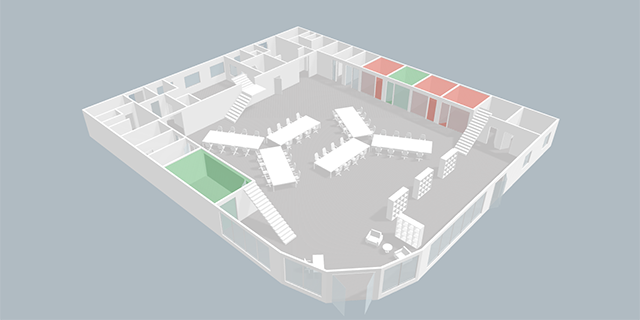
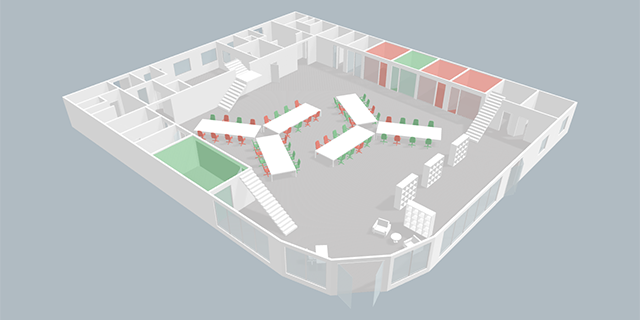
add desk booking

Changed region(s): [[0.0938, 0.0312, 0.9062, 0.9688], [0.2812, 0.6562, 0.3125, 0.6875], [0.1875, 0.4375, 0.2188, 0.4688]]

diff --git a/src/pages/examples/office-booking/_data.js b/src/pages/examples/office-booking/_data.js
@@ -1,7 +1,7 @@
 export const rooms = [
   {
     id: 'c92d5ab7-ed65-5e01-9bb1-87c3936f91c7',
-    name: 'T7',
+    name: 'Solomon Islands',
     available: false,
     coordinates: [
       {
@@ -32,7 +32,7 @@ export const rooms = [
   },
   {
     id: '59a3c0ce-14b6-5abb-b669-a692a2276854',
-    name: 'R9',
+    name: 'Macedonia',
     available: false,
     coordinates: [
       {
@@ -63,7 +63,7 @@ export const rooms = [
   },
   {
     id: '036a96ca-e399-5f51-970c-314bbca5e98f',
-    name: 'O3',
+    name: 'Svalbard & Jan Mayen',
     available: true,
     coordinates: [
       {
@@ -94,7 +94,7 @@ export const rooms = [
   },
   {
     id: '11afc6ff-e8f0-5515-819b-f612e5e6e4db',
-    name: 'N2',
+    name: 'Seychelles',
     available: false,
     coordinates: [
       {
@@ -125,7 +125,7 @@ export const rooms = [
   },
   {
     id: '5d1739ac-27ca-5788-a9fd-c8decc13d690',
-    name: 'F3',
+    name: 'French Polynesia',
     available: true,
     coordinates: [
       {
@@ -156,7 +156,7 @@ export const rooms = [
   },
   {
     id: '63de941e-8b30-5bbd-b169-f8936c07c838',
-    name: 'L9',
+    name: 'Honduras',
     available: true,
     coordinates: [
       {
@@ -187,7 +187,7 @@ export const rooms = [
   },
   {
     id: '7170ca48-c9de-56e5-9a4f-d7f1ebf2edaf',
-    name: 'T9',
+    name: 'Kyrgyzstan',
     available: false,
     coordinates: [
       {
@@ -218,7 +218,7 @@ export const rooms = [
   },
   {
     id: '7170ca48-c9de-56e5-9a4f-d7f1ebf3cdaf',
-    name: 'X6',
+    name: 'French Guiana',
     available: true,
     coordinates: [
       {
@@ -246,5 +246,253 @@ export const rooms = [
         elevation: 3.0000000000000036
       }
     ]
+  }
+]
+
+export const desks = [
+  {
+    name: 'Desk 01',
+    furnitureId: 'b0b1d83b-2429-4b3d-abc2-6a3b77abe8ed',
+    available: false
+  },
+  {
+    name: 'Desk 02',
+    furnitureId: '1cc946fd-cfe0-4dc7-9dae-5881012b2ba6',
+    available: false
+  },
+  {
+    name: 'Desk 03',
+    furnitureId: 'cd17af1f-2930-42c1-8fbc-aaa883c717af',
+    available: true
+  },
+  {
+    name: 'Desk 04',
+    furnitureId: '9ac8348c-e58f-4cae-bc7a-cad71ff2836e',
+    available: true
+  },
+  {
+    name: 'Desk 05',
+    furnitureId: '540b6dcf-4423-4ee8-9a16-2a91e2586b1b',
+    available: true
+  },
+  {
+    name: 'Desk 06',
+    furnitureId: 'c2206de0-8e3f-4225-ad0b-9f2ce51dd763',
+    available: false
+  },
+  {
+    name: 'Desk 07',
+    furnitureId: '1603d615-e1b4-4f51-8969-0f698b98585c',
+    available: true
+  },
+  {
+    name: 'Desk 08',
+    furnitureId: '6d46f953-b293-4f97-83cb-2bb2f2d07ae8',
+    available: true
+  },
+  {
+    name: 'Desk 09',
+    furnitureId: '4eb0fb9c-4ca6-49df-ad4c-6896f52220e5',
+    available: true
+  },
+  {
+    name: 'Desk 10',
+    furnitureId: 'bfbdbe93-3e3b-4639-8ea1-aa704f4a893c',
+    available: true
+  },
+  {
+    name: 'Desk 11',
+    furnitureId: 'eb11b661-c6b3-4df0-9359-64ac71c9528f',
+    available: false
+  },
+  {
+    name: 'Desk 12',
+    furnitureId: 'f76c9efc-efea-4f11-a760-1cd97b1380e8',
+    available: true
+  },
+  {
+    name: 'Desk 13',
+    furnitureId: 'af7be1e6-4dc9-49a6-8f7f-18d2acfb588e',
+    available: true
+  },
+  {
+    name: 'Desk 14',
+    furnitureId: '3d9a5b4d-ba6d-40f0-914e-de3016896fcd',
+    available: false
+  },
+  {
+    name: 'Desk 15',
+    furnitureId: '26ca5986-9a23-4d1c-8543-76a4e2a7878c',
+    available: true
+  },
+  {
+    name: 'Desk 16',
+    furnitureId: 'c3d1d0ba-ccb8-4a3f-bdb4-598ed1751de3',
+    available: false
+  },
+  {
+    name: 'Desk 17',
+    furnitureId: 'f3bb2189-494f-4573-9906-bd8b64942e23',
+    available: false
+  },
+  {
+    name: 'Desk 18',
+    furnitureId: '128d6920-603f-465a-b49b-a0cf3e1d4108',
+    available: false
+  },
+  {
+    name: 'Desk 19',
+    furnitureId: '1c9f5f97-2fa3-42e0-99e4-8f57ab931ec4',
+    available: true
+  },
+  {
+    name: 'Desk 20',
+    furnitureId: '46838541-d00e-439f-8b4c-afe3826644e6',
+    available: false
+  },
+  {
+    name: 'Desk 21',
+    furnitureId: '757e9d0a-5025-443c-817b-976fcfcd4b0f',
+    available: false
+  },
+  {
+    name: 'Desk 22',
+    furnitureId: '72bbe85b-6629-49b1-9bc7-d023aa7d1c49',
+    available: true
+  },
+  {
+    name: 'Desk 23',
+    furnitureId: 'e9bc9e25-320e-4b8b-b2a6-e65ee7596e1c',
+    available: true
+  },
+  {
+    name: 'Desk 24',
+    furnitureId: 'e6d0691a-7adf-475a-9ea5-1e1d52871437',
+    available: false
+  },
+  {
+    name: 'Desk 25',
+    furnitureId: '594b4a49-2c66-4ebb-a40a-742609083fe1',
+    available: false
+  },
+  {
+    name: 'Desk 26',
+    furnitureId: '536aa47c-c33f-4f2a-b051-7423e4e1dd0d',
+    available: true
+  },
+  {
+    name: 'Desk 27',
+    furnitureId: '00f6e4bd-a4b7-4998-87d5-d1677bbb05bb',
+    available: true
+  },
+  {
+    name: 'Desk 28',
+    furnitureId: 'a3d39cc6-3a55-41d6-acc0-e97a1abfebea',
+    available: true
+  },
+  {
+    name: 'Desk 29',
+    furnitureId: '0289a68f-0878-4c62-a038-a2f024b10cb2',
+    available: false
+  },
+  {
+    name: 'Desk 30',
+    furnitureId: '938e9140-1560-4b8c-80dc-76c8db0099ac',
+    available: true
+  },
+  {
+    name: 'Desk 31',
+    furnitureId: '938e9140-1560-4b8c-80dc-76c8db0099ac',
+    available: false
+  },
+  {
+    name: 'Desk 32',
+    furnitureId: '61662997-d8c3-4835-bcb0-81459e6228a7',
+    available: false
+  },
+  {
+    name: 'Desk 33',
+    furnitureId: '3a0b0f55-d116-4e40-b856-a5b2f504bb74',
+    available: false
+  },
+  {
+    name: 'Desk 34',
+    furnitureId: 'be3e5403-ab90-4190-9000-5803707148c4',
+    available: true
+  },
+  {
+    name: 'Desk 35',
+    furnitureId: 'b3161e62-2fac-4b7c-a4c3-82ad6981bc71',
+    available: true
+  },
+  {
+    name: 'Desk 36',
+    furnitureId: 'b8754da4-e708-4994-8e78-d4f1ddb77a56',
+    available: true
+  },
+  {
+    name: 'Desk 37',
+    furnitureId: '9a6c379e-6713-4475-a35a-88450f981412',
+    available: true
+  },
+  {
+    name: 'Desk 38',
+    furnitureId: 'd804344b-7fd8-4fd1-bdf4-15aeb4324349',
+    available: false
+  },
+  {
+    name: 'Desk 39',
+    furnitureId: 'aefc6477-a3b0-4160-b9c4-ab1677cadaf3',
+    available: true
+  },
+  {
+    name: 'Desk 40',
+    furnitureId: '7672236a-d778-463f-984e-ccb367e9eb97',
+    available: true
+  },
+  {
+    name: 'Desk 41',
+    furnitureId: '55726f2f-bb0f-4529-8adb-563ef5e54696',
+    available: true
+  },
+  {
+    name: 'Desk 42',
+    furnitureId: '667dfde5-8836-48e4-9755-be2242506efb',
+    available: true
+  },
+  {
+    name: 'Desk 43',
+    furnitureId: 'fce57f14-e1a5-4102-94b6-c96f0c006fd1',
+    available: false
+  },
+  {
+    name: 'Desk 44',
+    furnitureId: '2eff29a1-0cd5-429b-a332-7c8aa901abfa',
+    available: true
+  },
+  {
+    name: 'Desk 45',
+    furnitureId: '6fb497ec-16cd-432c-a872-11407fad5ac9',
+    available: false
+  },
+  {
+    name: 'Desk 46',
+    furnitureId: '13e0be0a-6106-458e-9334-85db02b114a8',
+    available: false
+  },
+  {
+    name: 'Desk 47',
+    furnitureId: 'c587208d-f00c-4907-b71f-fcde58976ca7',
+    available: false
+  },
+  {
+    name: 'Desk 48',
+    furnitureId: '0a9ea518-5133-4bcb-a81e-a301ebd889d1',
+    available: false
+  },
+  {
+    name: 'Desk 49',
+    furnitureId: 'c956ad13-d8e0-40f3-924e-1ff1346fdd91',
+    available: false
   }
 ]

diff --git a/src/pages/examples/office-booking/OfficeBooking.js b/src/pages/examples/office-booking/OfficeBooking.js
@@ -1,7 +1,7 @@
 import React, { useState, useCallback, useEffect } from 'react'
 
 import Viewer from './Viewer'
-import { rooms } from './_data'
+import { rooms, desks } from './_data'
 
 const OfficeBooking = () => {
   const [space, setSpace] = useState()
@@ -22,6 +22,13 @@ const OfficeBooking = () => {
       color: d => (d.available ? '#3aa655' : '#ff3f34'),
       alpha: 0.7,
       height: 2.9
+    })
+    space.addDataLayer({
+      id: 'desks',
+      type: 'furniture',
+      data: desks,
+      tooltip: d => `${d.name} - ${d.available ? 'free' : 'occupied'}`,
+      color: d => (d.available ? '#3aa655' : '#ff3f34')
     })
     return () => {
       space.removeDataLayer('rooms')

diff --git a/src/pages/examples/office-booking/Viewer.js b/src/pages/examples/office-booking/Viewer.js
@@ -9,12 +9,13 @@ const Viewer = memo(({ onReady }) => {
 
   function onLoad () {
     const space = new smplr.Space({
-      spaceId: 'f3ec0aab-d665-4a92-b25b-e77b91617030',
+      // spaceId: '7c765cb5-15c3-4876-a496-4141adc6bd99', // dev
+      spaceId: 'f3ec0aab-d665-4a92-b25b-e77b91617030', // prod
       spaceToken: 'X',
       containerId: 'smplr-container'
     })
     space.startViewer({
-      preview: true,
+      preview: false,
       onReady: () => onReady(space),
       onError: error => console.error('Could not start viewer', error)
     })
